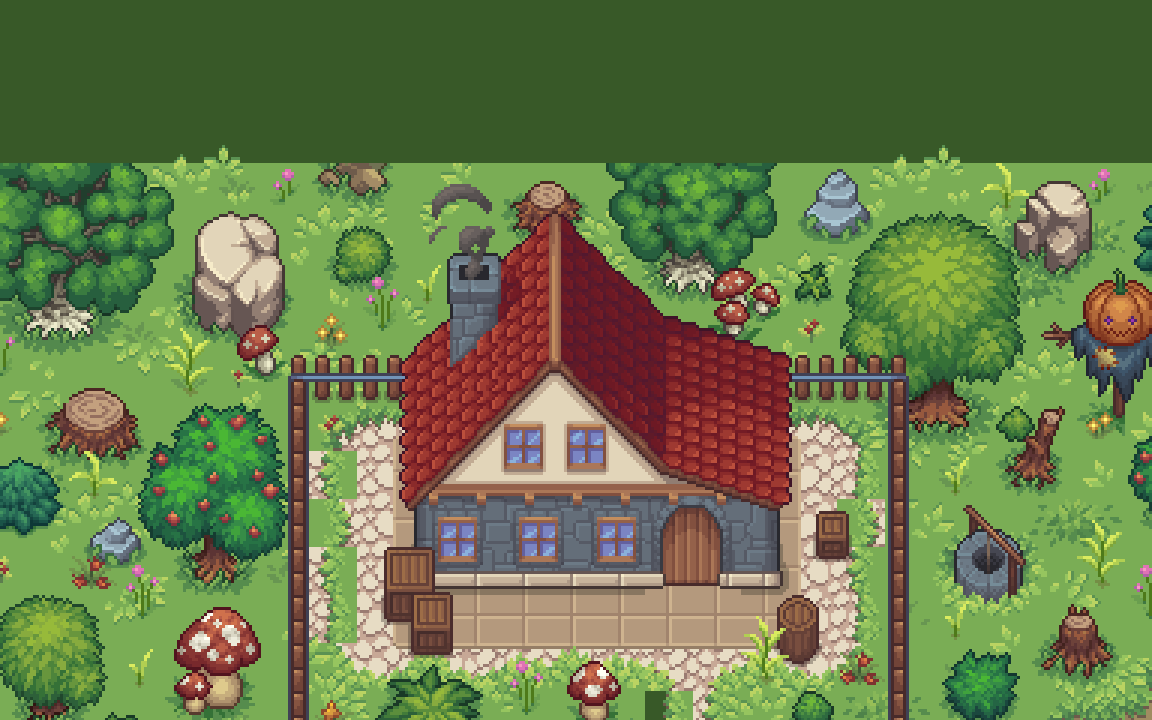
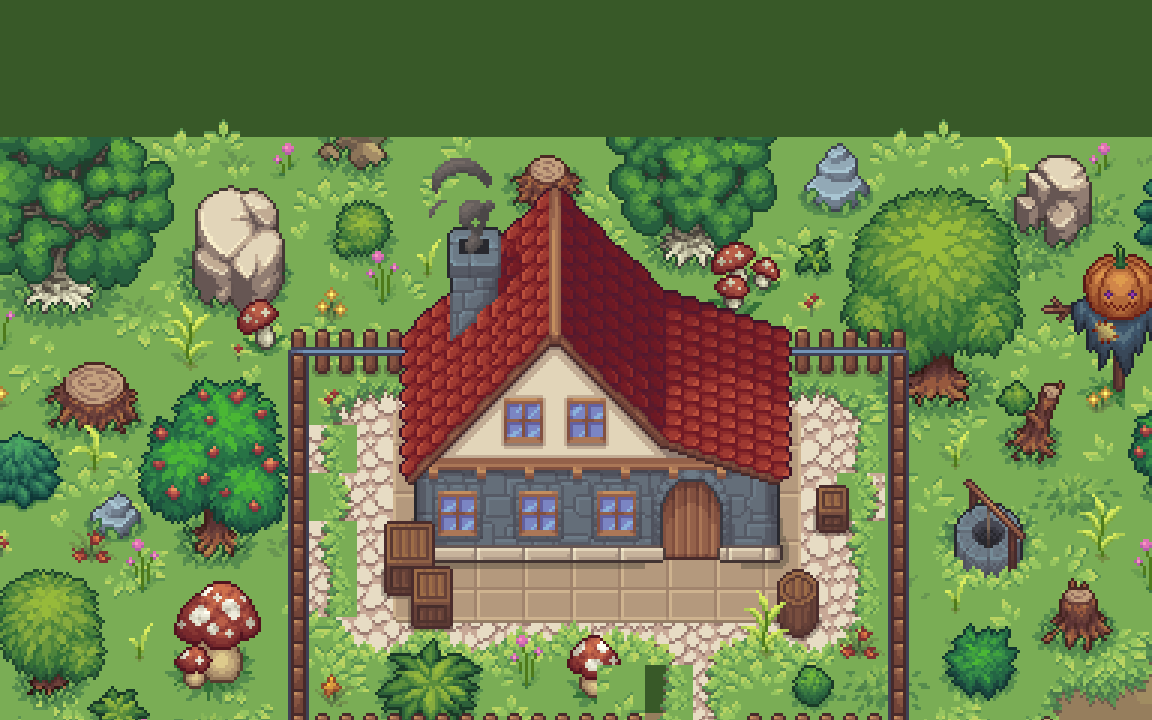
art: polish CraftPix home preview scene

diff --git a/docs/PROJECT_STATUS.md b/docs/PROJECT_STATUS.md
@@ -1,15 +1,14 @@
 # PROJECT STATUS
 
-Обновлено: 2026-08-01 (CraftPix home preview)
+Обновлено: 2026-08-01 (CraftPix preview polish)
 
 ## Кратко
 
-- CraftPix **Main Character’s Home** интегрирован локально и в Git (по разрешению владельца проекта).  
-- Preview: `craftpix_home_preview.tscn` (F6) — только CraftPix, без procedural/Puny/AI terrain.  
-- Tile size: **16×16**. Готовая Tiled-карта: **да** (`Exterior.tmx`). Human character: **нет**.  
-- Статус pack: **under evaluation** (не финальное утверждение).  
-- **Стоп:** GameRoot, основной двор, farming, NPC, interior gameplay.
+- CraftPix home preview — **polish pass**: открыта южная калитка, коллизии забора/дома уточнены, вход очищен, срезанные props убраны.  
+- Скрины: `docs/art_tests/craftpix_home_preview*.png` (gate / outside / gate_collisions).  
+- Pack по-прежнему **under evaluation** (DEC-008).  
+- **Стоп:** GameRoot, основной двор, character pack, interior gameplay.
 
 ## Следующее
 
-Оценить скрины `docs/art_tests/craftpix_home_preview*.png` и решить, принимать ли pack как outdoor/house базу. Отдельно подобрать character pack.
+Оценить проходимость калитки и принять/отклонить pack как outdoor base.

diff --git a/docs/NEXT_STEPS.md b/docs/NEXT_STEPS.md
@@ -1,18 +1,16 @@
 # NEXT STEPS
 
-Обновлено: 2026-08-01 (CraftPix home preview)
+Обновлено: 2026-08-01 (CraftPix preview polish)
 
 ## Сейчас
 
-Оценить CraftPix outdoor preview:
+Проверить polish:
 
 - `docs/art_tests/craftpix_home_preview.png`
-- `…_move.png`, `…_ysort.png`, `…_collisions.png`
-- `craftpix_tiled_exterior_reference.png`
-- аудит: `docs/CRAFTPIX_HOME_AUDIT.md`
+- `…_gate.png` — у калитки
+- `…_outside.png` — снаружи после прохода
+- `…_gate_collisions.png` — debug коллизий у проёма
 
 ## Стоп
 
-Не переносить preview в основной двор.  
-Не начинать GameRoot / vertical slice gameplay.  
-Не смешивать с procedural terrain proof.
+Не переносить в основной двор / GameRoot без подтверждения.

diff --git a/docs/CHANGELOG_AI.md b/docs/CHANGELOG_AI.md
@@ -2,6 +2,19 @@
 
 Формат: дата → что сделано → файлы → что осталось.
 
+## 2026-08-01 (i) — polish CraftPix home preview
+
+**Сделано:**
+- южная калитка: убраны закрытые gate-tiles (gid 788/789) на колонках дорожки — явный проход;
+- коллизии: fence кроме проёма + house walls + tree/exterior footprints (не каждый decor);
+- очищен входной коридор (кусты/грибы/декор у калитки);
+- убраны срезанные/orphan props на южном крае;
+- скрины gate / outside / gate_collisions.
+
+**Не делалось:** смена art direction, GameRoot, character pack.
+
+---
+
 ## 2026-08-01 (h) — CraftPix home pack audit + outdoor preview
 
 **Сделано:**
